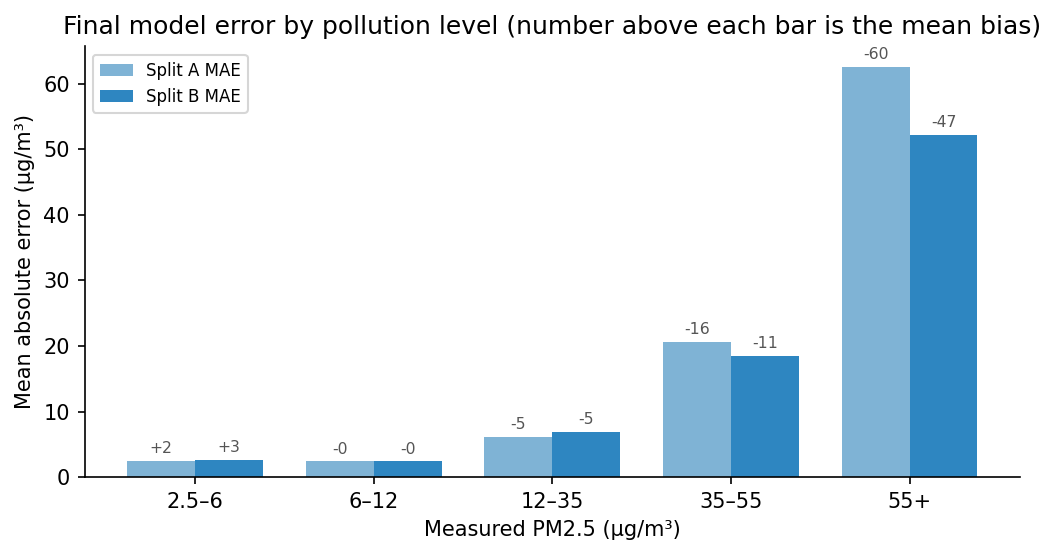
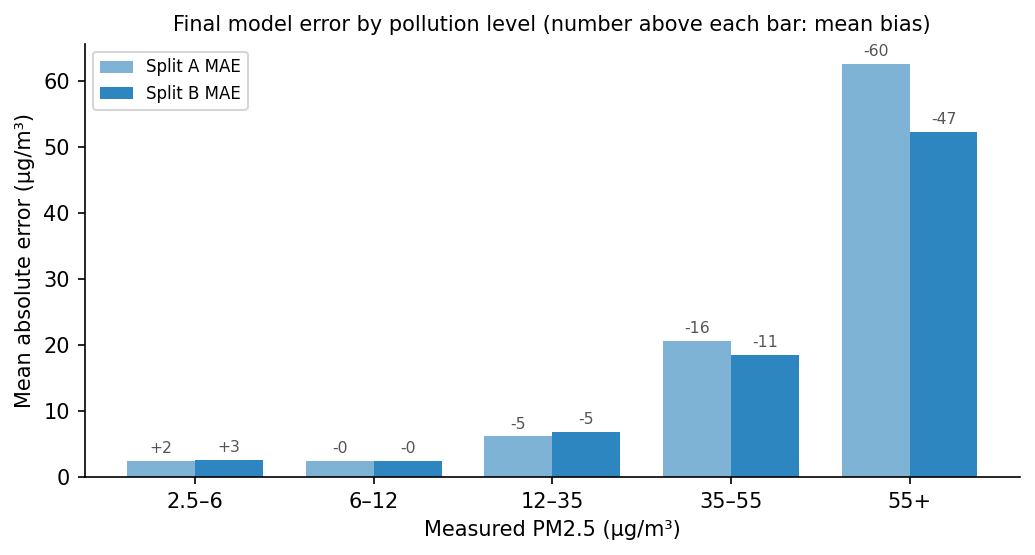
Figures: per-state panels in two rows, flag-rate chart at full width, error-by-level title

diff --git a/scripts/11_figures.py b/scripts/11_figures.py
@@ -150,7 +150,7 @@ def fig4():
             ax.text(x, mae + 1.2, f"{bias:+.0f}", ha="center", fontsize=7.5, color="#555")
     ax.set_xticks(range(len(BUCK))); ax.set_xticklabels([n for _, _, n in BUCK])
     ax.set_xlabel("Measured PM2.5 (µg/m³)"); ax.set_ylabel("Mean absolute error (µg/m³)")
-    ax.set_title("Final model error by pollution level (number above each bar is the mean bias)")
+    ax.set_title("Final model error by pollution level (number above each bar: mean bias)", fontsize=10)
     ax.legend(fontsize=8)
     save(fig, "fig4_bucket_profile.png")
 
@@ -749,14 +749,15 @@ def _r2(yt, yp):
 def fig33():  # per-state scatter
     b = pd.concat([blend(SPLIT_A), blend(SPLIT_B)])
     b["state"] = b.station_id.str[:2].map(STATE_OF)
-    fig, axes = plt.subplots(1, 5, figsize=(14, 3.3), sharex=True, sharey=True)
+    fig, axes = plt.subplots(2, 3, figsize=(10, 6.6), sharex=True, sharey=True)
+    axes = axes.ravel(); axes[-1].axis("off")
     for ax, s, col in zip(axes, ORDER, STATE_COLORS):
         d = b[b.state == s]
         hb = _density_panel(ax, d, f"{s}: R²={_r2(d.y_true, d.y_pred):.2f}, n={len(d):,}", gridsize=30)
-        ax.title.set_fontsize(9.5)
-        ax.set_xlabel("true (µg/m³)")
-    axes[0].set_ylabel("predicted (µg/m³)")
-    fig.colorbar(hb, ax=axes, label="scenes per cell", shrink=0.9, pad=0.01)
+        ax.title.set_fontsize(10)
+    axes[0].set_ylabel("predicted (µg/m³)"); axes[3].set_ylabel("predicted (µg/m³)")
+    for ax in axes[:5]: ax.set_xlabel("measured (µg/m³)")
+    fig.colorbar(hb, ax=axes[:5].tolist(), label="scenes per cell", shrink=0.6, pad=0.02)
     fig.suptitle("Held-out-station predictions by state (both splits pooled)", y=1.02)
     fig.savefig(FIG / "fig33_per_state_scatter.png", bbox_inches="tight"); plt.close(fig)
 
